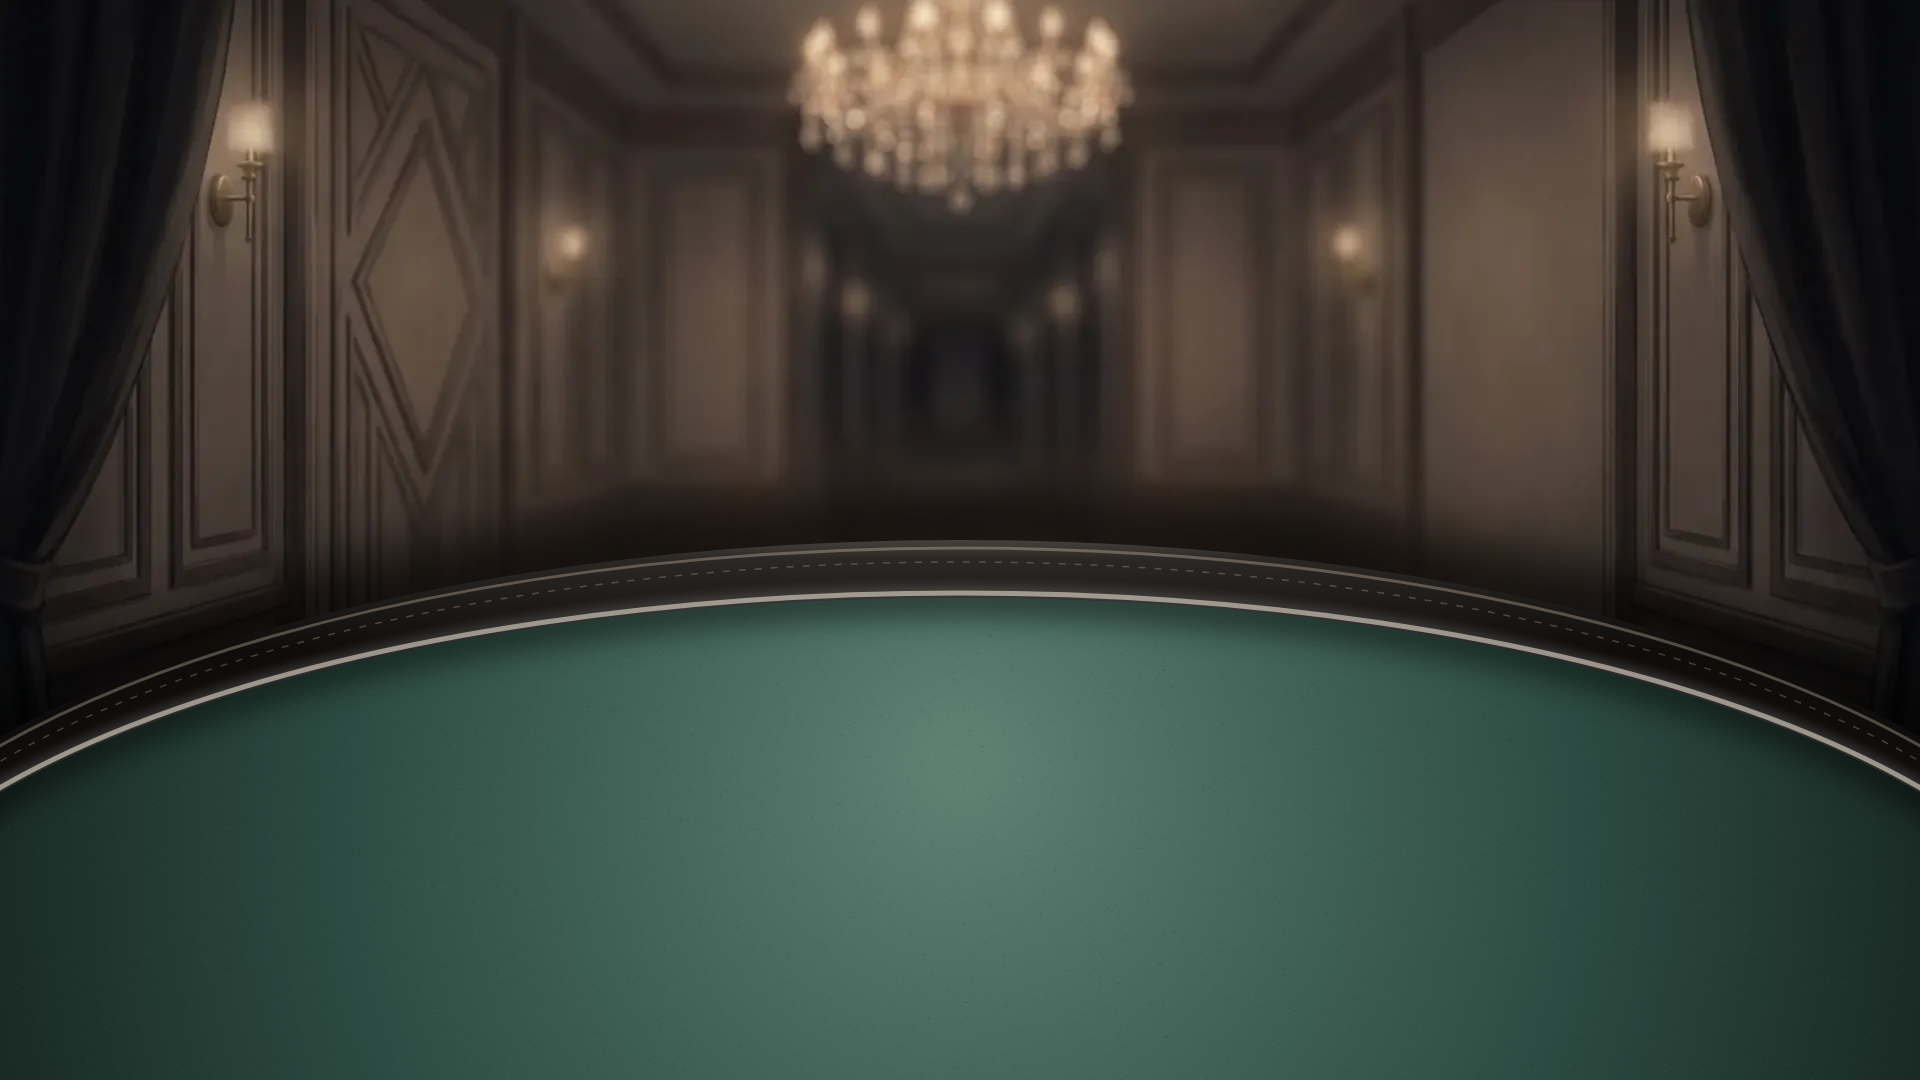
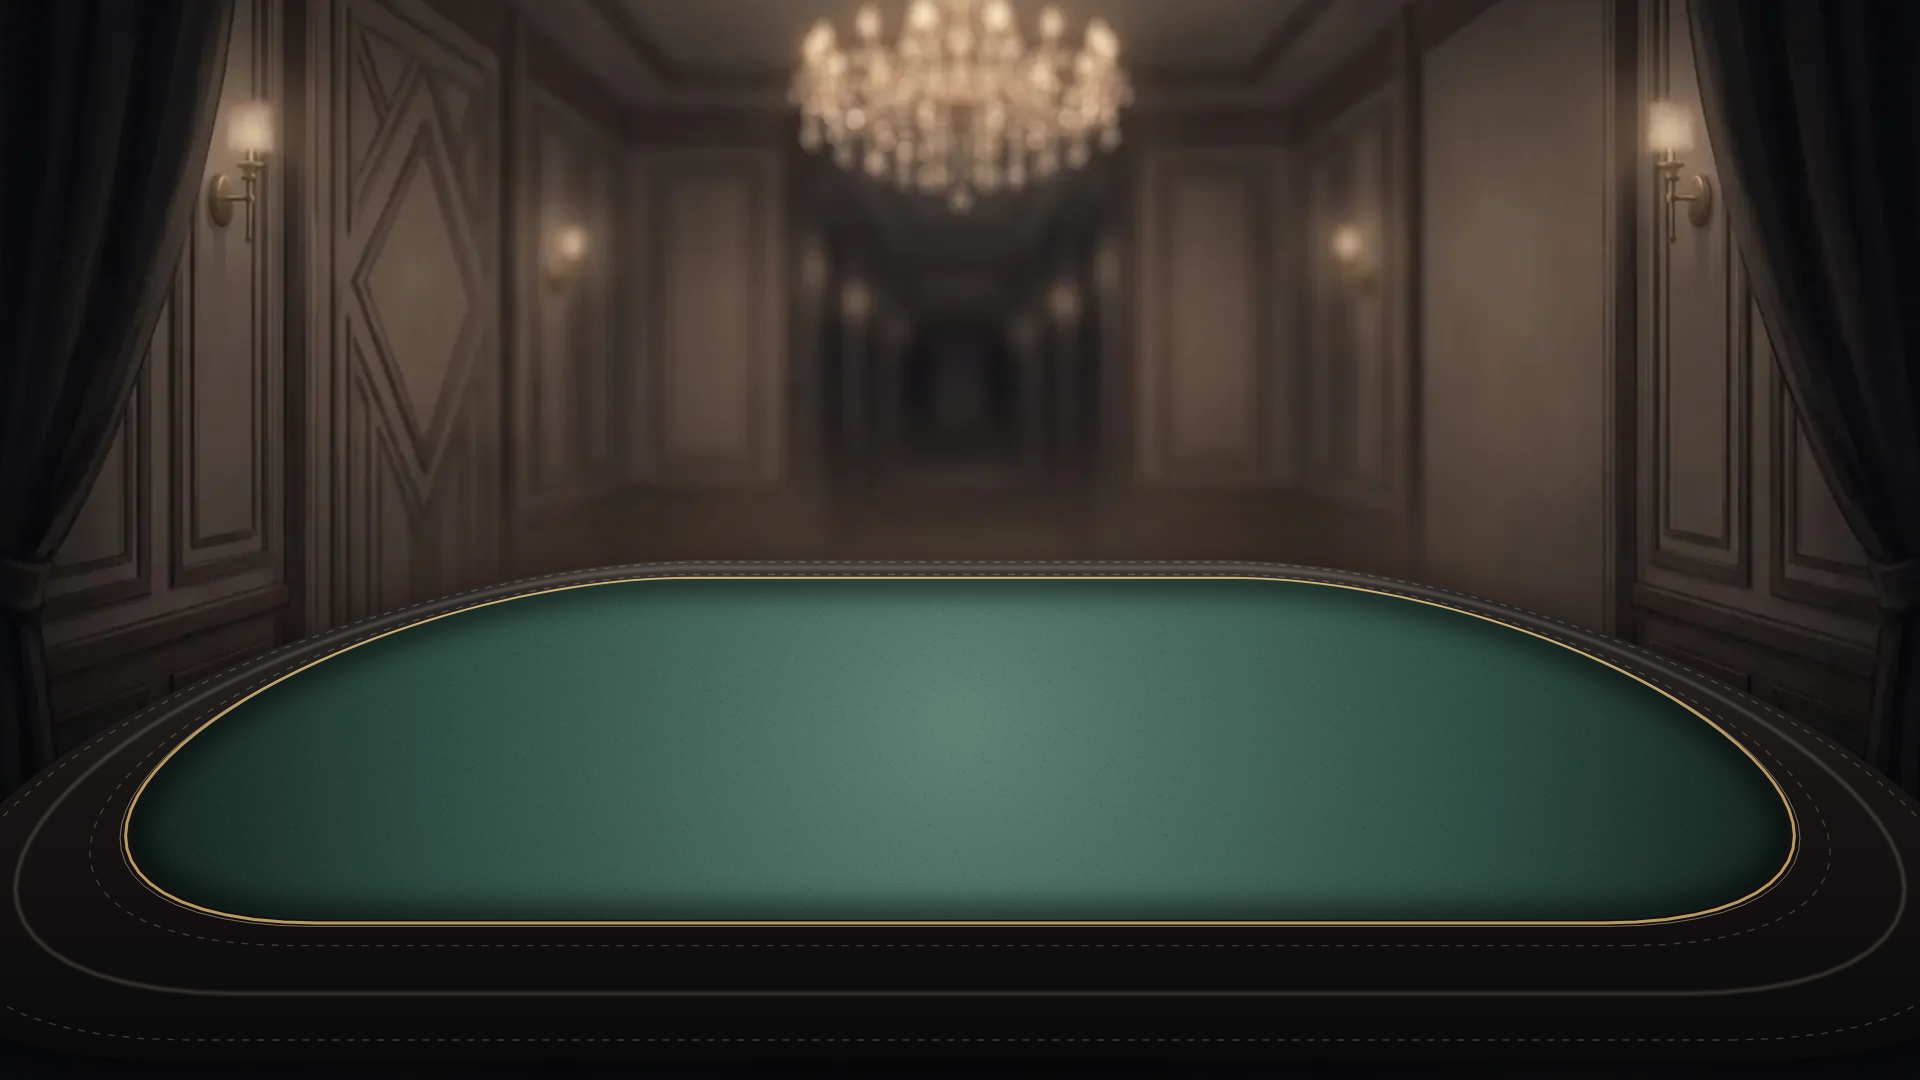
Table: professional racetrack shape instead of an oval
The table is now a stadium (two long straight sides, half-round ends,
2:1) projected from your seat at the middle of the near long side: the
far rail is a straight line behind the board, the ends sit at the left
and right, the near rail runs along the bottom. Leather rail with
stitching and a highlight, brass inlay, felt with a light pool and a
racetrack betting line. The existing seat, board and plate positions
already fall on the rail and felt. The painting guide and prompt follow.

Claude-Session: https://claude.ai/code/session_018zFVPf4fEPp1KkpbBxUonq

Changed region(s): [[0.0, 0.4583, 1.0, 1.0]]

diff --git a/web/src/stage/painter.ts b/web/src/stage/painter.ts
@@ -218,90 +218,134 @@ export function paintBeam(w: number, h: number, x: number, top: number, bottom: 
 // Table
 // ---------------------------------------------------------------------------
 
-export const TABLE = { cx: 960, cy: 1010, rx: 1180, ry: 470 };
+/** The table is a racetrack (stadium) seen from your seat at the middle of its near
+ *  long side. Top-down units: the straight part is 2a long, the ends are half circles
+ *  of radius 1, the table is centred zc ahead of the camera. Screen x = 960 + f·x/z,
+ *  screen y = horizon + F/z. The numbers put the far rail at y≈560 (behind the board,
+ *  in front of the far players), the ends at x≈200 and 1720, and the near rail just
+ *  above the bottom edge, so the seats in layout.ts fall on the rail and felt. */
+export const TABLE = { a: 1, zc: 1.92, f: 730, F: 672, horizon: 330, rail: 0.22 };
+
+/** Top-down (x, z) to screen. */
+export function tableToScreen(x: number, z: number): [number, number] {
+  const { f, F, horizon } = TABLE;
+  return [960 + (f * x) / z, horizon + F / z];
+}
+
+/** The outline of the table shrunk by `inset` (0 = outer edge of the rail), as screen points. */
+export function tableOutline(inset = 0, steps = 48): number[] {
+  const { a, zc } = TABLE;
+  const r = 1 - inset;
+  const pts: number[] = [];
+  const push = (x: number, z: number) => pts.push(...tableToScreen(x, z));
+  // right end, from the near side round to the far side, then the left end back
+  for (let i = 0; i <= steps; i++) {
+    const t = -Math.PI / 2 + (i / steps) * Math.PI;
+    push(a + Math.cos(t) * r, zc + Math.sin(t) * r);
+  }
+  for (let i = 0; i <= steps; i++) {
+    const t = Math.PI / 2 + (i / steps) * Math.PI;
+    push(-a + Math.cos(t) * r, zc + Math.sin(t) * r);
+  }
+  return pts;
+}
+
+function outlinePath(g: CanvasRenderingContext2D, pts: number[]) {
+  g.beginPath();
+  g.moveTo(pts[0], pts[1]);
+  for (let i = 2; i < pts.length; i += 2) g.lineTo(pts[i], pts[i + 1]);
+  g.closePath();
+}
 
 /** White where the table is (its outer rail edge), slightly feathered: cuts painted
  *  table art out of the full frame it was generated in. */
 export function paintTableMask(w: number, h: number): HTMLCanvasElement {
   const [c, g] = canvas(w, h);
-  const { cx, cy, rx, ry } = TABLE;
   g.filter = 'blur(1.5px)';
   g.fillStyle = '#fff';
-  g.beginPath();
-  g.ellipse(cx, cy, rx, ry, 0, 0, Math.PI * 2);
+  outlinePath(g, tableOutline(0));
   g.fill();
   return c;
 }
 
-/** The table seen from the player's seat: black leather rail with a gold inlay,
- *  emerald felt lit by a spotlight over the board, a gilded betting line. */
+/** The racetrack table: a padded black leather rail with stitching, a brass inlay,
+ *  dark green felt lit by a pool of light over the board, and a betting line. */
 export function paintTable(w: number, h: number, plain = false): HTMLCanvasElement {
   const [c, g] = canvas(w, h);
-  const { cx, cy, rx, ry } = TABLE;
-  const ell = (dx: number, dy: number, a0 = 0, a1 = Math.PI * 2, oy = 0) => {
-    g.beginPath();
-    g.ellipse(cx, cy + oy, rx - dx, ry - dy, 0, a0, a1);
-  };
-  // shadow on the floor
+  const outer = tableOutline(0);
+  const inner = tableOutline(TABLE.rail);
+  const [, farY] = tableToScreen(0, TABLE.zc + 1);
+  const [, midY] = tableToScreen(0, TABLE.zc);
+
+  // shadow on the floor around the table
   g.fillStyle = 'rgba(0,0,0,0.6)';
-  g.filter = 'blur(24px)';
-  ell(-40, -40, 0, Math.PI * 2, -10);
+  g.filter = 'blur(26px)';
+  g.save();
+  g.translate(0, 14);
+  outlinePath(g, outer);
   g.fill();
+  g.restore();
   g.filter = 'none';
 
-  // leather rail
-  const rim = g.createLinearGradient(0, cy - ry, 0, cy - ry + 110);
-  rim.addColorStop(0, '#45403a');
-  rim.addColorStop(0.18, '#2a2724');
-  rim.addColorStop(1, '#0e0d0c');
+  // leather rail: dark, catching light on its rounded top (lighter far away, where
+  // we see the top of the padding, and darker toward us)
+  const rim = g.createLinearGradient(0, farY - 10, 0, h);
+  rim.addColorStop(0, '#4a4440');
+  rim.addColorStop(0.08, '#2b2725');
+  rim.addColorStop(0.45, '#171514');
+  rim.addColorStop(1, '#0a0909');
   g.fillStyle = rim;
-  ell(0, 0);
+  outlinePath(g, outer);
   g.fill();
-  // stitching and specular along the rail
-  g.strokeStyle = 'rgba(255,235,210,0.28)';
+  // the highlight running along the top of the padding
+  g.strokeStyle = 'rgba(255,238,215,0.22)';
   g.lineWidth = 3;
-  ell(10, 8, Math.PI * 1.05, Math.PI * 1.95);
+  g.filter = 'blur(1.5px)';
+  outlinePath(g, tableOutline(TABLE.rail * 0.42));
   g.stroke();
-  g.setLineDash([7, 9]);
-  g.strokeStyle = rgba(PAL.beige, 0.25);
-  g.lineWidth = 1.5;
-  ell(26, 22, Math.PI * 1.03, Math.PI * 1.97);
+  g.filter = 'none';
+  // stitching on both edges of the padding
+  g.setLineDash([7, 8]);
+  g.strokeStyle = rgba(PAL.beige, 0.22);
+  g.lineWidth = 1.4;
+  outlinePath(g, tableOutline(TABLE.rail * 0.12));
+  g.stroke();
+  outlinePath(g, tableOutline(TABLE.rail * 0.78));
   g.stroke();
   g.setLineDash([]);
 
-  // gold inlay between rail and felt
-  g.strokeStyle = rgba(PAL.beige, 0.6);
-  g.lineWidth = 5;
-  g.shadowColor = rgba(PAL.paper, 0.8);
-  g.shadowBlur = 14;
-  ell(40, 47, 0, Math.PI * 2, 6);
+  // brass inlay between rail and felt
+  g.strokeStyle = '#b89a62';
+  g.lineWidth = 3;
+  outlinePath(g, tableOutline(TABLE.rail * 0.97));
   g.stroke();
-  g.shadowBlur = 0;
+  g.strokeStyle = 'rgba(255,230,180,0.45)';
+  g.lineWidth = 1;
+  outlinePath(g, tableOutline(TABLE.rail * 0.94));
+  g.stroke();
 
-  // felt with the spotlight pool over the board
-  const felt = g.createRadialGradient(cx, cy - 250, 30, cx, cy - 120, rx * 0.95);
+  // felt with the pool of light over the board
+  g.save();
+  outlinePath(g, inner);
+  g.clip();
+  const felt = g.createRadialGradient(960, midY + 40, 20, 960, midY + 60, 900);
   felt.addColorStop(0, hex(0x5d8073));
-  felt.addColorStop(0.22, hex(PAL.feltHi));
-  felt.addColorStop(0.55, hex(PAL.felt));
-  felt.addColorStop(1, '#121c19');
+  felt.addColorStop(0.25, hex(PAL.feltHi));
+  felt.addColorStop(0.6, hex(PAL.felt));
+  felt.addColorStop(1, '#101a17');
   g.fillStyle = felt;
-  ell(45, 52, 0, Math.PI * 2, 6);
-  g.fill();
-
+  g.fillRect(0, 0, w, h);
   // felt fibre
   const rnd = seeded(11);
-  g.save();
-  ell(45, 52, 0, Math.PI * 2, 6);
-  g.clip();
-  for (let i = 0; i < 14000; i++) {
+  for (let i = 0; i < 16000; i++) {
     g.fillStyle = rnd() < 0.5 ? 'rgba(255,255,255,0.035)' : 'rgba(0,20,15,0.08)';
-    g.fillRect(rnd() * w, cy - ry + rnd() * ry * 2, 2, 1.5);
+    g.fillRect(rnd() * w, farY + rnd() * (h - farY), 2, 1.5);
   }
   // the rail's shadow falling on the felt edge
-  g.strokeStyle = 'rgba(0,0,0,0.45)';
-  g.lineWidth = 40;
-  g.filter = 'blur(14px)';
-  ell(45, 52, 0, Math.PI * 2, 6);
+  g.strokeStyle = 'rgba(0,0,0,0.5)';
+  g.lineWidth = 34;
+  g.filter = 'blur(12px)';
+  outlinePath(g, inner);
   g.stroke();
   g.filter = 'none';
   g.restore();
@@ -309,44 +353,15 @@ export function paintTable(w: number, h: number, plain = false): HTMLCanvasEleme
   // the painting guide (docs/11 §4.3) leaves out the printed marks
   if (plain) return c;
 
-  // gilded betting line, double
-  g.strokeStyle = rgba(PAL.beige, 0.55);
-  g.lineWidth = 2.5;
-  g.beginPath();
-  g.ellipse(cx, cy + 20, rx * 0.74, ry * 0.62, 0, Math.PI * 1.08, Math.PI * 1.92);
-  g.stroke();
-  g.strokeStyle = rgba(PAL.beige, 0.25);
-  g.lineWidth = 1.5;
-  g.beginPath();
-  g.ellipse(cx, cy + 20, rx * 0.74 - 14, ry * 0.62 - 10, 0, Math.PI * 1.09, Math.PI * 1.91);
-  g.stroke();
-
-  // the house crest, printed in gold leaf
-  g.save();
-  g.translate(cx, cy - ry * 0.21);
-  g.scale(1, 0.55);
-  g.fillStyle = rgba(PAL.beige, 0.22);
-  g.font = 'italic 700 46px Georgia, "Noto Serif SC", serif';
-  g.textAlign = 'center';
-  g.textBaseline = 'middle';
-  g.fillText('HOLD\u2019EM', 0, 0);
-  g.strokeStyle = rgba(PAL.beige, 0.2);
+  // betting line: a smaller racetrack, double
+  g.strokeStyle = rgba(PAL.beige, 0.4);
   g.lineWidth = 2;
-  for (const s of [-1, 1]) {
-    g.beginPath();
-    g.moveTo(s * 210, 0);
-    g.lineTo(s * 330, 0);
-    g.stroke();
-    g.beginPath();
-    g.moveTo(s * 196, -8);
-    g.lineTo(s * 204, 0);
-    g.lineTo(s * 196, 8);
-    g.lineTo(s * 188, 0);
-    g.closePath();
-    g.fillStyle = rgba(PAL.beige, 0.22);
-    g.fill();
-  }
-  g.restore();
+  outlinePath(g, tableOutline(0.5));
+  g.stroke();
+  g.strokeStyle = rgba(PAL.beige, 0.18);
+  g.lineWidth = 1.2;
+  outlinePath(g, tableOutline(0.53));
+  g.stroke();
   return c;
 }
 

diff --git a/docs/11-art-production.md b/docs/11-art-production.md
@@ -148,24 +148,26 @@ Dark warm greys and browns, very low saturation, small warm highlights only, sha
 
 ### 4.3 牌桌 `table-top`（16:9，在底稿上加材质）
 
-代码画的桌子没有质感，桌子也改成插画。桌子的形状必须和座位、公共牌、名牌的坐标对齐，所以**不从零生成，而是在底稿上改**：
+桌子是职业牌桌的**跑道形**（两条长直边、两头半圆，长宽约 2:1），从你坐的长边中间看过去：远处的长边是一条直线，两头的半圆在左右两边，近处的长边压在画面底部。形状在代码里按透视算出（`web/src/stage/painter.ts` 的 `TABLE`），座位、公共牌、名牌都按它摆。
 
-1. 下载底稿 `art-src/guides/table-guide.png`：现在的背景加上游戏里代码画的桌子（去掉了字和线），位置和形状就是游戏里的样子。
+桌子插画必须和这个形状对齐，所以**不从零生成，而是在底稿上改**：
+
+1. 下载底稿 `art-src/guides/table-guide.png`：现在的背景加上游戏里代码画的桌子（去掉了下注线），位置和形状就是游戏里的样子。
 2. 上传底稿，粘贴下面的说明。
-3. 交回整张图（背景也在里面没关系），代码按桌子的外沿椭圆自动抠出来。**唯一的要求是桌子外沿的轮廓不要变**，变了会露出背景或者切掉桌沿。
+3. 交回整张图（背景也在里面没关系），代码按桌子的外沿自动抠出来。**唯一的要求是桌子外沿的轮廓不要变**，变了会露出背景或者切掉桌沿。
 
-v1 的教训：说"Repaint"，Gemini 会另画一张俯视的小桌子，还自己加上印刷线、牌框、筹码槽和杯托。所以要说"Edit"，强调我们就坐在桌边（近处的桌沿在画面外），并逐个点名不要的东西。
+v1 的教训：Gemini 会自己加上印刷线、牌框、筹码槽和杯托，画成亮漆木纹的 3D 渲染风。说明里要逐个点名不要。
 
 ```
-Edit the attached image. Do not change the composition at all: same camera, same perspective, same room, and the table keeps exactly its current shape, size and position. Only improve the MATERIALS and LIGHTING of the table so it looks like a luxurious, high-end poker table, painted in the same anime background art style as the room.
+Edit the attached image. Do not change the composition: same camera, same perspective, same room. The poker table keeps exactly its current racetrack shape (two long straight sides joined by two half-round ends), size and position; the outer edge of the rail must stay exactly where it is. Only improve the MATERIALS and LIGHTING of the table so it looks like a professional, high-end casino poker table, painted in the same anime background art style as the room.
 
-We are sitting at this table: its near side is below the bottom edge of the image and must not be visible. The table is very large and runs off the left, right and bottom edges of the image. The curved dark band is the far rail; keep its curve exactly where it is.
+We are sitting at the middle of the near long side: the near rail runs along the bottom of the image, the far rail is the long straight edge across the middle, and the two rounded ends are at the left and right.
 
-Materials: the rail is padded black leather with fine stitching and soft glossy highlights along its rounded top; a thin polished brass inlay runs between the rail and the playing surface; the playing surface is deep dark-green wool felt with a visible fine fabric texture.
+Materials: a thick padded rail of black leather with fine stitching and soft glossy highlights along its rounded top; a thin polished brass inlay between the rail and the playing surface; the playing surface is deep dark-green wool felt with a visible fine fabric texture.
 
-Lighting: warm light from the chandelier makes a soft oval pool of light in the middle of the felt, falling off to dark toward the edges; the rail casts a soft shadow onto the edge of the felt. Painted, not photorealistic, not a 3D render, no varnished wood.
+Lighting: warm light from the chandelier makes a soft pool of light in the middle of the felt, falling off to dark toward the ends; the rail casts a soft shadow onto the edge of the felt. Painted, not photorealistic, not a 3D render, no varnished wood.
 
-Keep the felt completely plain: no printed lines, no betting lines, no card boxes, no dealer tray, no chip rack, no cup holders, no cards, no chips, no text, no logos. Same 16:9 framing.
+Keep the felt completely plain: no printed lines, no card boxes, no dealer tray, no chip rack, no cup holders, no cards, no chips, no text, no logos. Same 16:9 framing.
 ```
 
 ## 5. 其余 5 个角色（凛定稿后再做）
